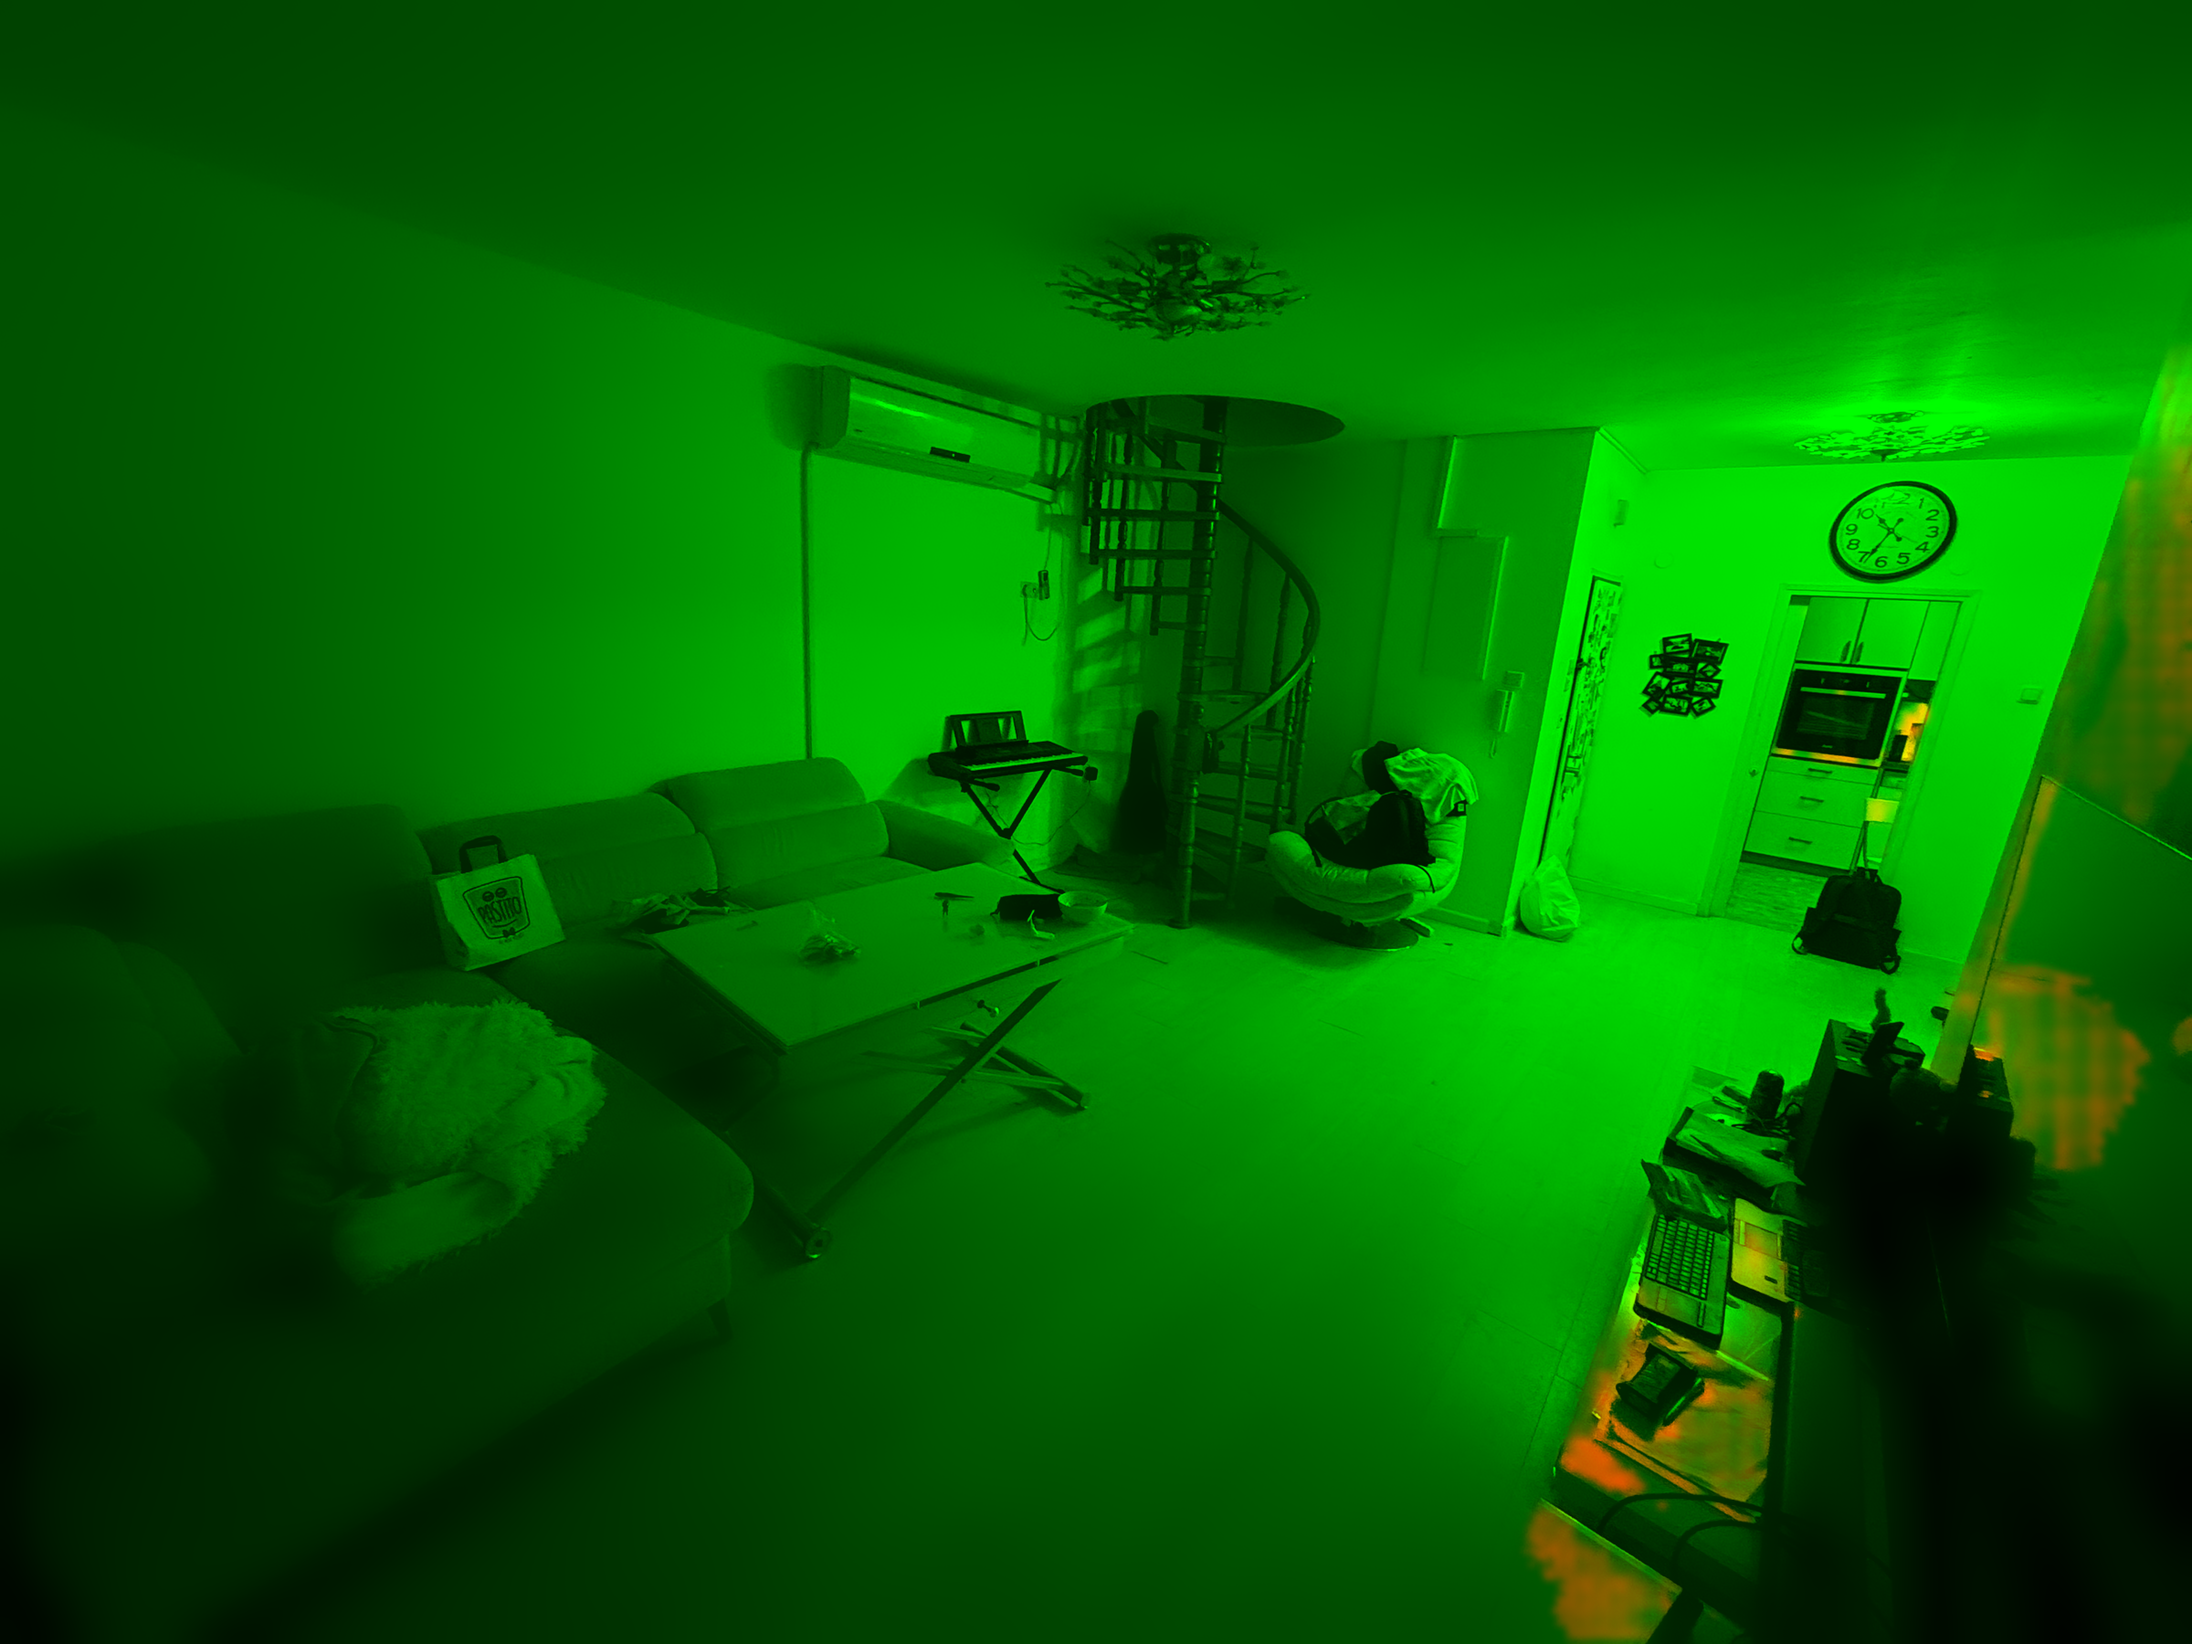
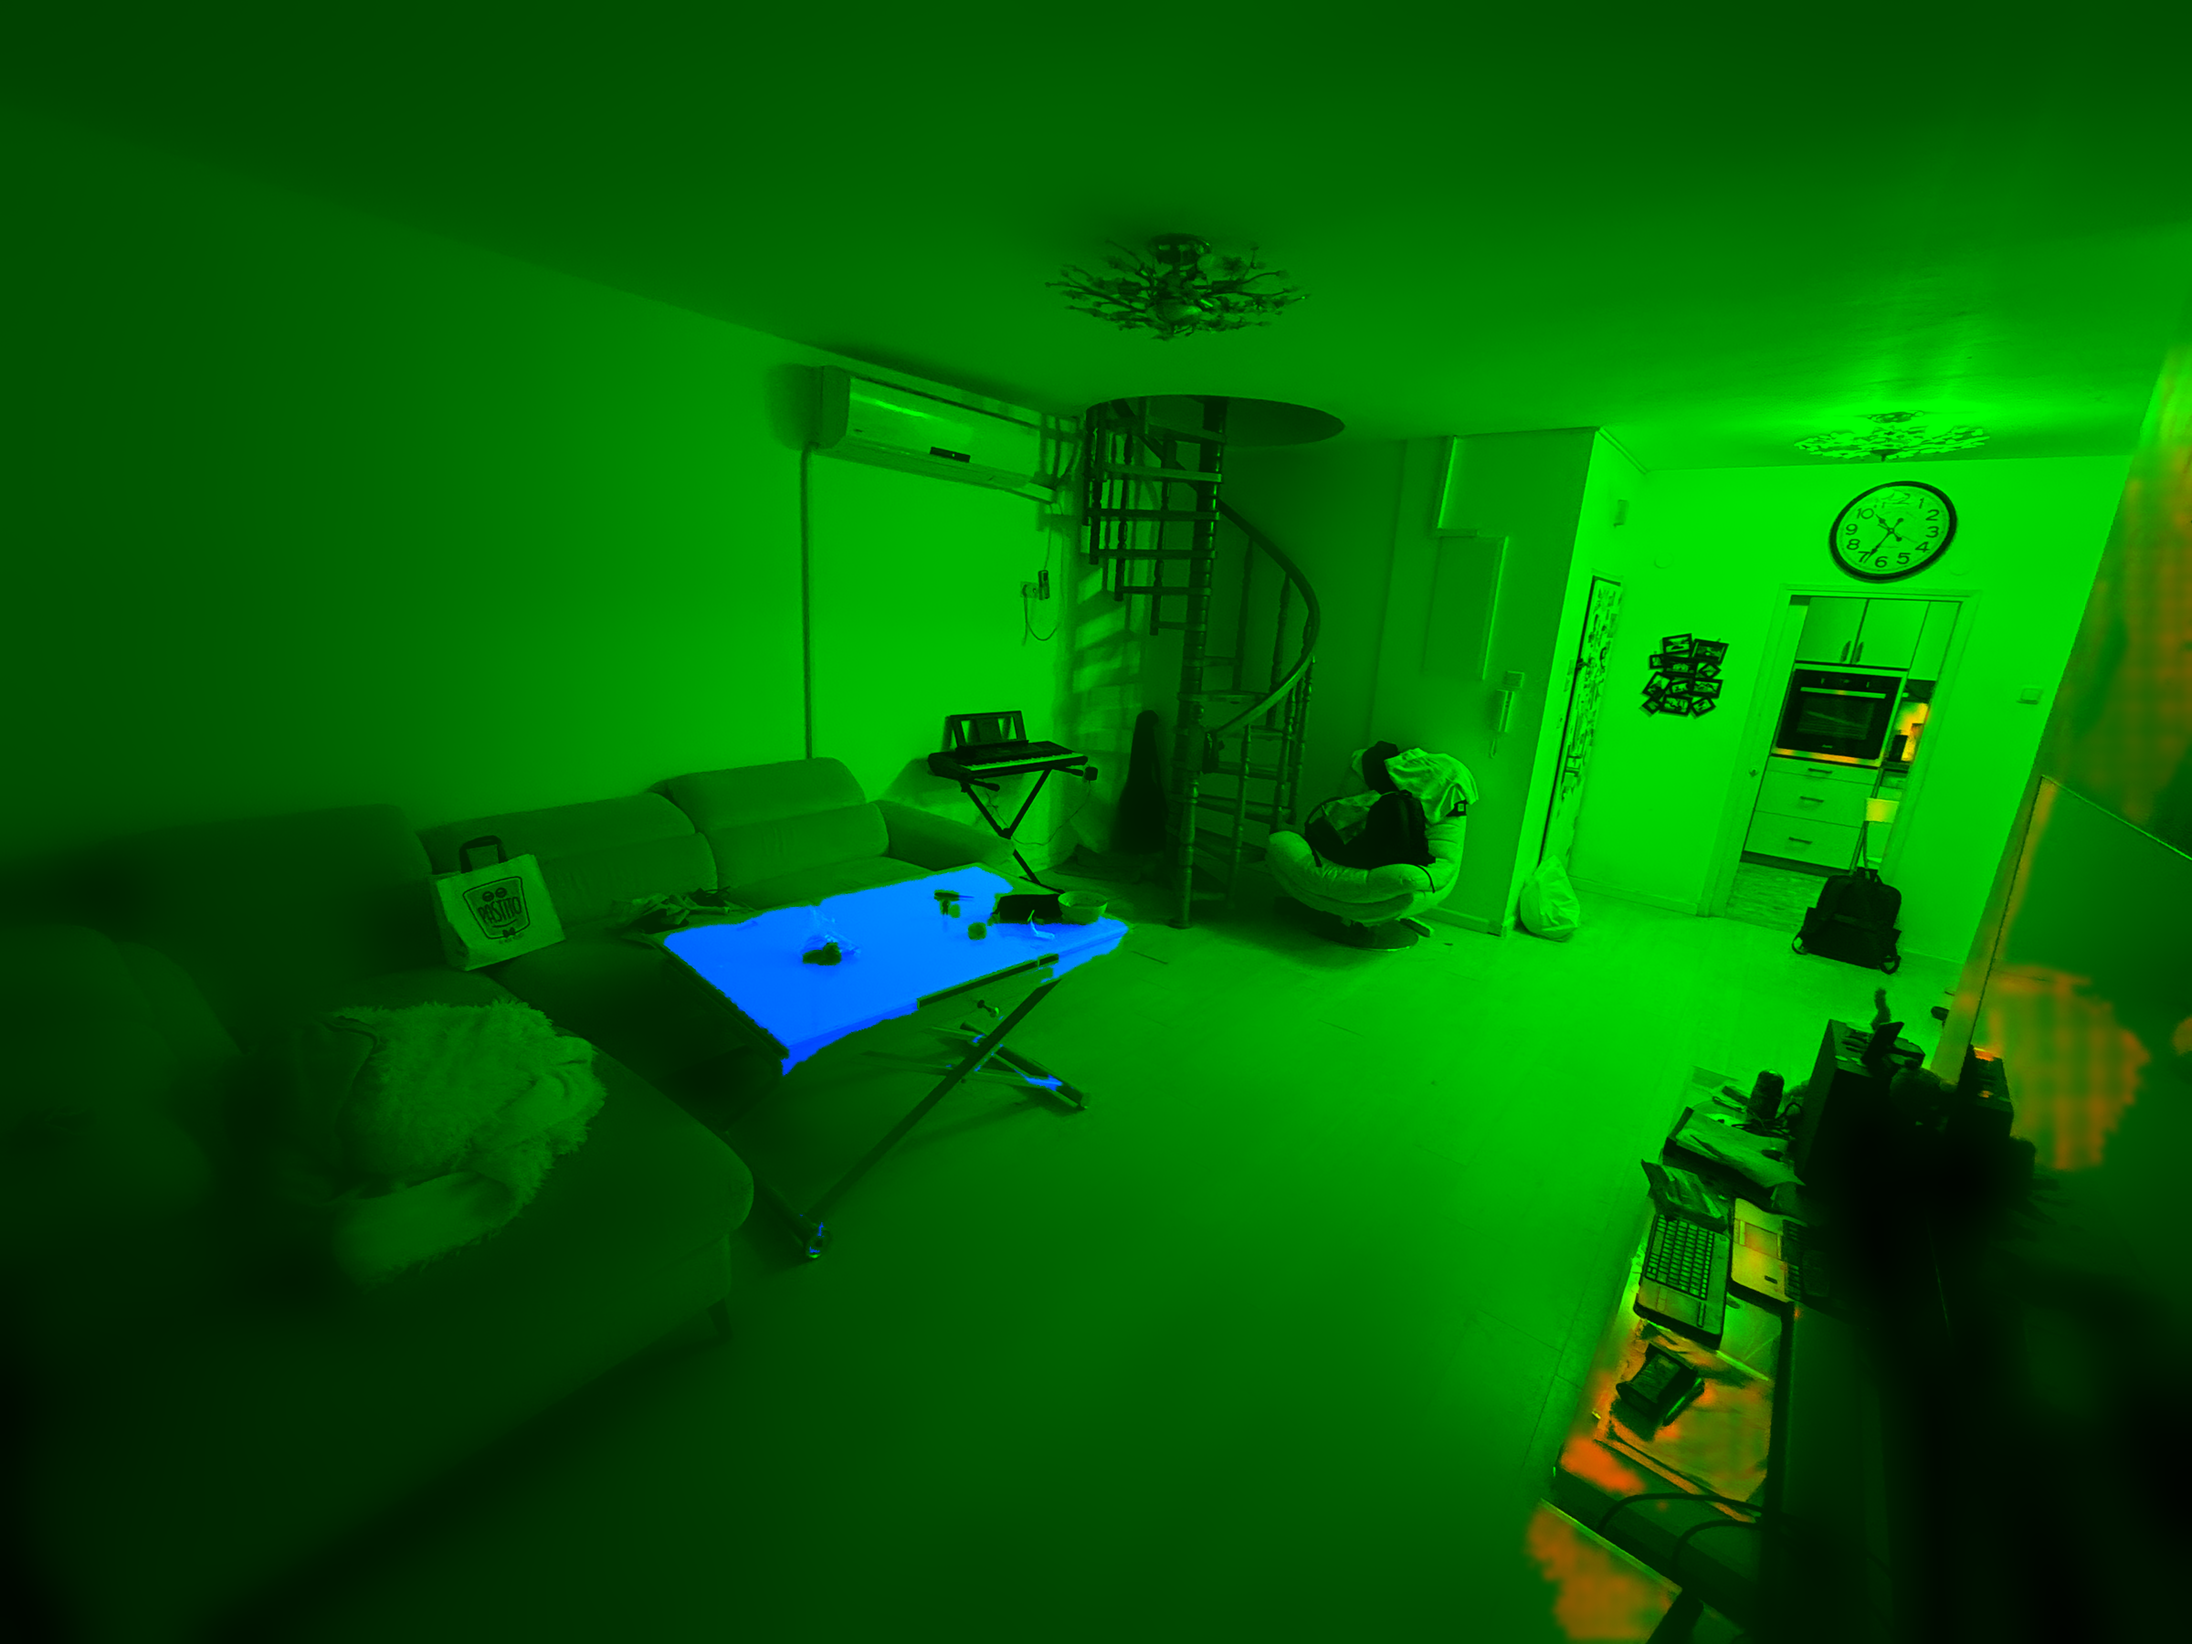
Glass layer on all photos, photo 4 floor cleanup, floor shading normalization

Changed region(s): [[0.2812, 0.5289, 0.5312, 0.6533], [0.4688, 0.6533, 0.5, 0.6844]]

diff --git a/index.html b/index.html
@@ -66,7 +66,7 @@ void main(){vec3 o=lin(texture2D(ph,v).rgb);float L=lum(o);
  for(int i=0;i<7;i++){ if(i==1){
    if(fmode>1.5){vec3 q=Hi*vec3(v*asp,1.);vec2 uv=q.xy/q.z/tscale;
      vec3 t=lin(texture2D(ft,uv).rgb);if(stainOn>.5)t=lin(stain)*(lum(t)/tmean)*.9;
-     float sh=min(Ls/mean[1],2.2)*pow(det,.18);float spec=max(0.,Ls/mean[1]-1.3)*.35+max(0.,det-1.25)*.25;vec3 nf=t*sh/1.05+spec*.25;c=mix(c,nf,w[1]);c=mix(c,nf*vec3(.78,.88,.85)*.9+vec3(max(L-Ls,0.))*1.2+o*.12,mcc.b);}
+     float sh=pow(min(Ls/mean[1],3.),.6)*pow(det,.18);float spec=max(0.,Ls/mean[1]-1.3)*.35+max(0.,det-1.25)*.25;vec3 nf=t*sh/1.05+spec*.25;c=mix(c,nf,w[1]);c=mix(c,nf*vec3(.78,.88,.85)*.9+vec3(max(L-Ls,0.))*1.2+o*.12,mcc.b);}
    else if(fmode>.5){vec3 nf=lin(col[1])*min(L/mean[1],3.);c=mix(c,nf,w[1]);c=mix(c,lin(col[1])*min(Ls/mean[1],2.)*vec3(.78,.88,.85)*.9+vec3(max(L-Ls,0.))*1.2+o*.12,mcc.b);}
   } else if(on[i]>.5){vec3 nc=(i==3)?lin(col[i])*pow(min(Ls/mean[i],4.),.8)*pow(det,.55):(i==4)?lin(col[i])*pow(min(Ls/mean[i],3.),.9)*pow(det,.8):lin(col[i])*min(L/mean[i],3.);c=mix(c,nc,w[i]);} }
  if(on[7]>.5)c=mix(c,lin(col[7])*min(L/mean[0],3.),wa);
